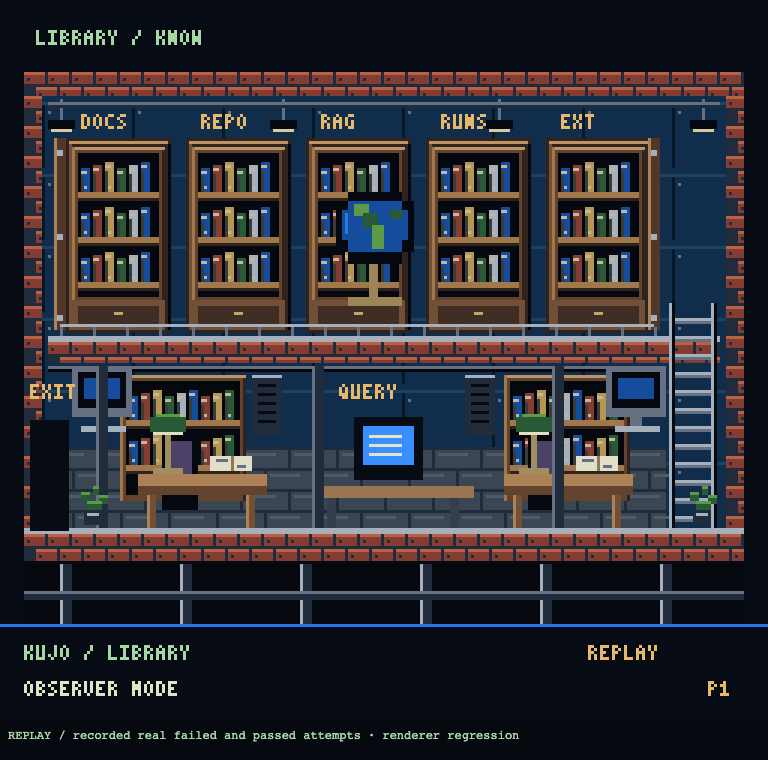
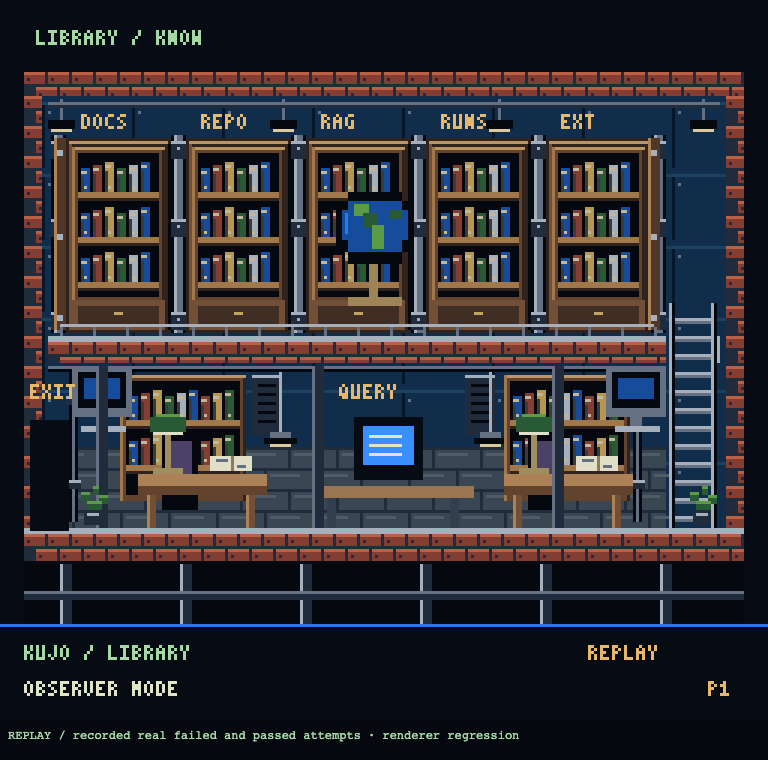
Align mezzanine openings and add native Library steelwork

diff --git a/packages/renderer-pixi/scenery.ts b/packages/renderer-pixi/scenery.ts
@@ -358,8 +358,11 @@ export function roomFloor(g: Graphics) {
 }
 
 export function mezzanine(g: Graphics) {
-  rect(g, 16, 112, 224, 2, P.light);
-  masonry(g, 16, 114, 224, 7, true);
+  // Leave a real opening above the ladder instead of drawing a solid floor
+  // through the ascending character. The authored walking heights stay fixed.
+  rect(g, 16, 112, 206, 2, P.light);
+  masonry(g, 16, 114, 206, 7, true);
+  rect(g, 239, 112, 1, 9, P.light);
   for (const x of [32, 104, 184]) {
     rect(g, x, 122, 4, 54, P.mortar);
     rect(g, x, 122, 1, 54, P.stone);
@@ -403,6 +406,18 @@ export function books(g: Graphics, x: number, y: number, w: number, h: number) {
 
 /** Architectural scenery only: fixed tiles, cabinetry and ventilation. */
 export function libraryArchitecture(g: Graphics) {
+  // Native-resolution steel bays translate the concept's industrial framing
+  // onto the authored room, rather than stretching a misaligned bitmap.
+  for (const x of [17, 57, 97, 137, 177, 217]) {
+    rect(g, x, 45, 5, 66, P.ink);
+    rect(g, x + 1, 45, 3, 66, P.stone);
+    rect(g, x + 1, 45, 1, 66, P.light);
+    for (const y of [47, 73, 104]) {
+      rect(g, x, y, 5, 6, P.mortar);
+      rect(g, x, y, 5, 1, P.light);
+      rect(g, x + 2, y + 2, 1, 1, P.light);
+    }
+  }
   // Recessed wood wall panels make the book stacks part of the room.
   for (let x = 22; x < 215; x += 40) {
     rect(g, x, 46, 35, 65, 0x30221c);
@@ -427,6 +442,21 @@ export function libraryArchitecture(g: Graphics) {
     rect(g, x, 125, 10, 20, P.mortar);
     rect(g, x, 125, 10, 1, P.light);
     for (let y = 128; y < 143; y += 3) rect(g, x + 2, y, 6, 1, P.ink);
+  }
+  // Steady pendant lamps and exposed conduit are architecture, not activity.
+  for (const x of [93, 163]) {
+    rect(g, x, 124, 1, 20, P.light);
+    rect(g, x - 3, 144, 7, 2, P.stone);
+    rect(g, x - 5, 146, 11, 2, P.ink);
+    rect(g, x - 3, 148, 7, 1, 0xd9c99c);
+  }
+  for (const x of [23, 211]) {
+    rect(g, x, 123, 3, 51, P.ink);
+    rect(g, x + 1, 123, 1, 51, P.stone);
+    for (const y of [132, 160]) {
+      rect(g, x - 1, y, 5, 3, P.mortar);
+      rect(g, x - 1, y, 5, 1, P.light);
+    }
   }
 }
 

diff --git a/scripts/cityscape-proof.ts b/scripts/cityscape-proof.ts
@@ -202,6 +202,38 @@ try {
     await page.screenshot({ path: resolve(out, scene + ".png") });
   }
   assert.deepEqual(errors, []);
+  // Inspect the actual rendered opening in both rooms sharing the mezzanine.
+  const ladderOpenings = await page.evaluate(() => {
+    const r = (window as any).visualRenderer;
+    const results = [];
+    for (const scene of ["library", "workshop"]) {
+      r.scene = scene;
+      r.draw(
+        { tick: 0, seen: [], walkers: {} },
+        (window as any).visualTruth,
+        "REPLAY",
+      );
+      const { pixels, width } = r.app.renderer.extract.pixels({
+        target: r.app.stage,
+        frame: r.app.screen,
+      });
+      // y=113 is the light floor lip; x=230 is between ladder rails.
+      const floor = (113 * width + 210) * 4;
+      const opening = (113 * width + 230) * 4;
+      results.push({
+        scene,
+        open:
+          pixels[floor] !== pixels[opening] ||
+          pixels[floor + 1] !== pixels[opening + 1] ||
+          pixels[floor + 2] !== pixels[opening + 2],
+      });
+    }
+    return results;
+  });
+  assert(
+    ladderOpenings.every((room) => room.open),
+    "Floor spans ladder opening",
+  );
   await writeFile(
     resolve(out, "proof.json"),
     JSON.stringify(
@@ -211,6 +243,7 @@ try {
         browser: browser.version(),
         ...result,
         freshness,
+        ladderOpenings,
         sameOrderSnapshotClearsPriorOutcomes: resetPixels === 0,
         errors,
         at: new Date().toISOString(),

diff --git a/evidence/cityscape/library-review.md b/evidence/cityscape/library-review.md
@@ -17,3 +17,9 @@ The overall artwork remains materially simpler than the reference pack.
 Added recessed wood shelf surrounds, highlighted shelf edges, alternating spine details, lower reading-room tiles and fixed ventilation/service fittings. All details use original integer pixel geometry. The common shelf drawing also improves the Workshop's existing bookshelf. No stations, routes, portals, truth, characters or operation labels changed.
 
 Re-rendered all six interiors and city with the existing retained real-event visual harness. Browser proof passed with zero page errors, retained Dojo fail/pass glyph counts 34/32 and replacement-snapshot clearing. Typecheck passed. Reviewed the Library screenshot at its 3× integer scale: flooring remains behind desks and agents, source-section labels remain readable, and the right-hand ladder opening is clear. This is an incremental art improvement, not a claim of reference fidelity approval or new live-runtime qualification.
+
+## Native steel bays and ladder opening — 2026-09-08
+
+Added original integer-pixel steel shelf bays, rivets, pendant lights and conduit. The generated candidate remains unshipped; these materials follow the existing authored coordinates. Corrected the shared Library/Workshop mezzanine floor lip and masonry, which previously continued across the ladder. This corrects the earlier visual review's overly broad statement about the opening: the safety rail was open, but the floor still crossed it.
+
+Typecheck, production build and browser renderer proof pass. The browser proof now samples the actual floor lip and ladder opening in both rooms; both openings differ from the solid floor. Zero page errors; retained Dojo failure/pass glyphs remain 34/32; replacement-snapshot clearing and injected-clock freshness checks still pass. Inspected Library screenshot at 3× integer scale. No map, station, portal, runtime or semantic state changed. This is incremental artwork and a rendering correction, not a full reference-fidelity approval or public release qualification.
